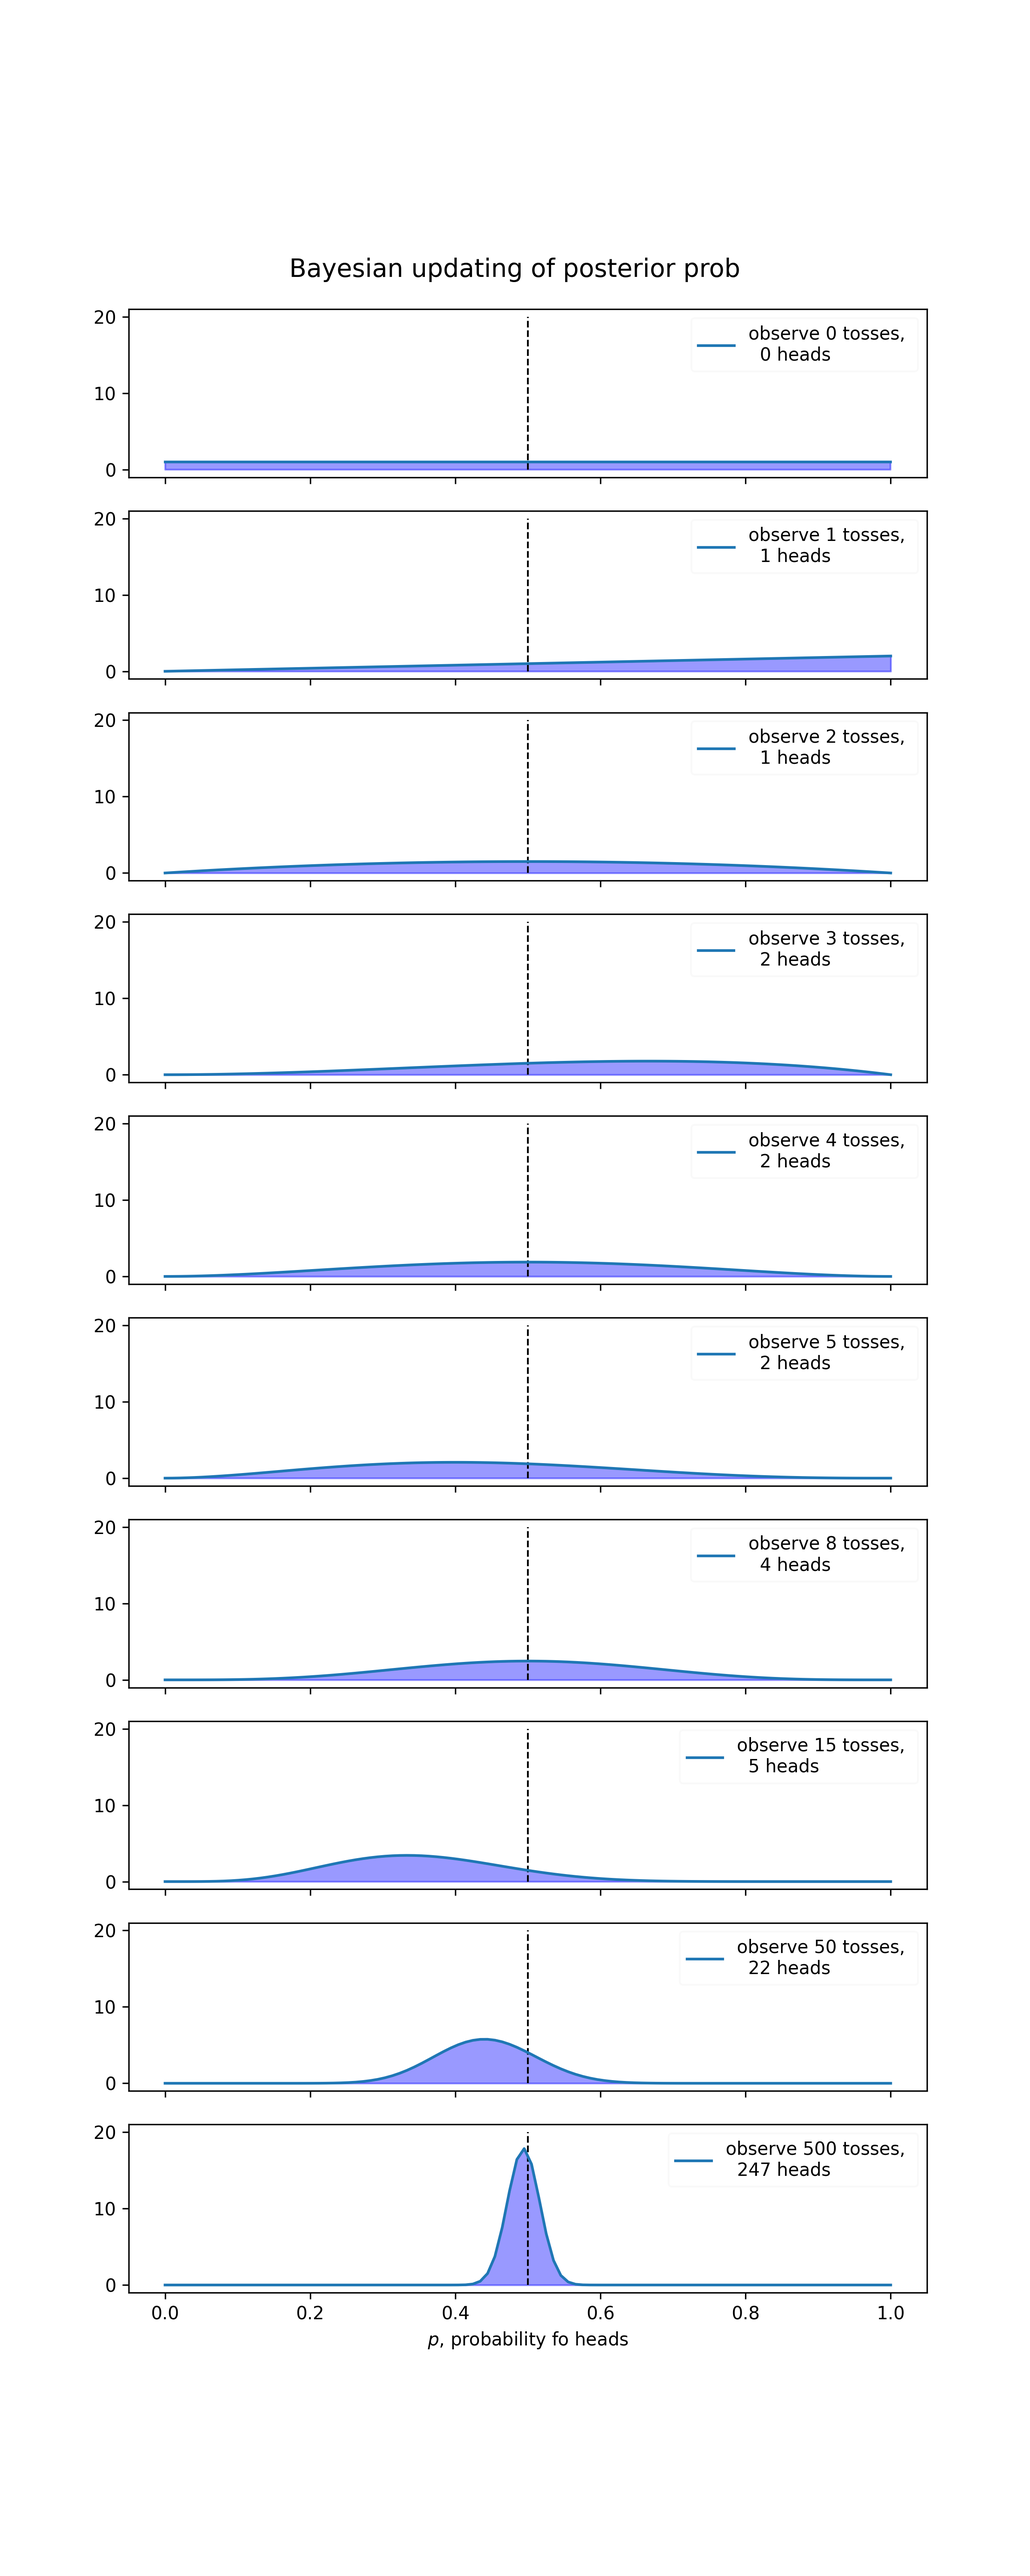
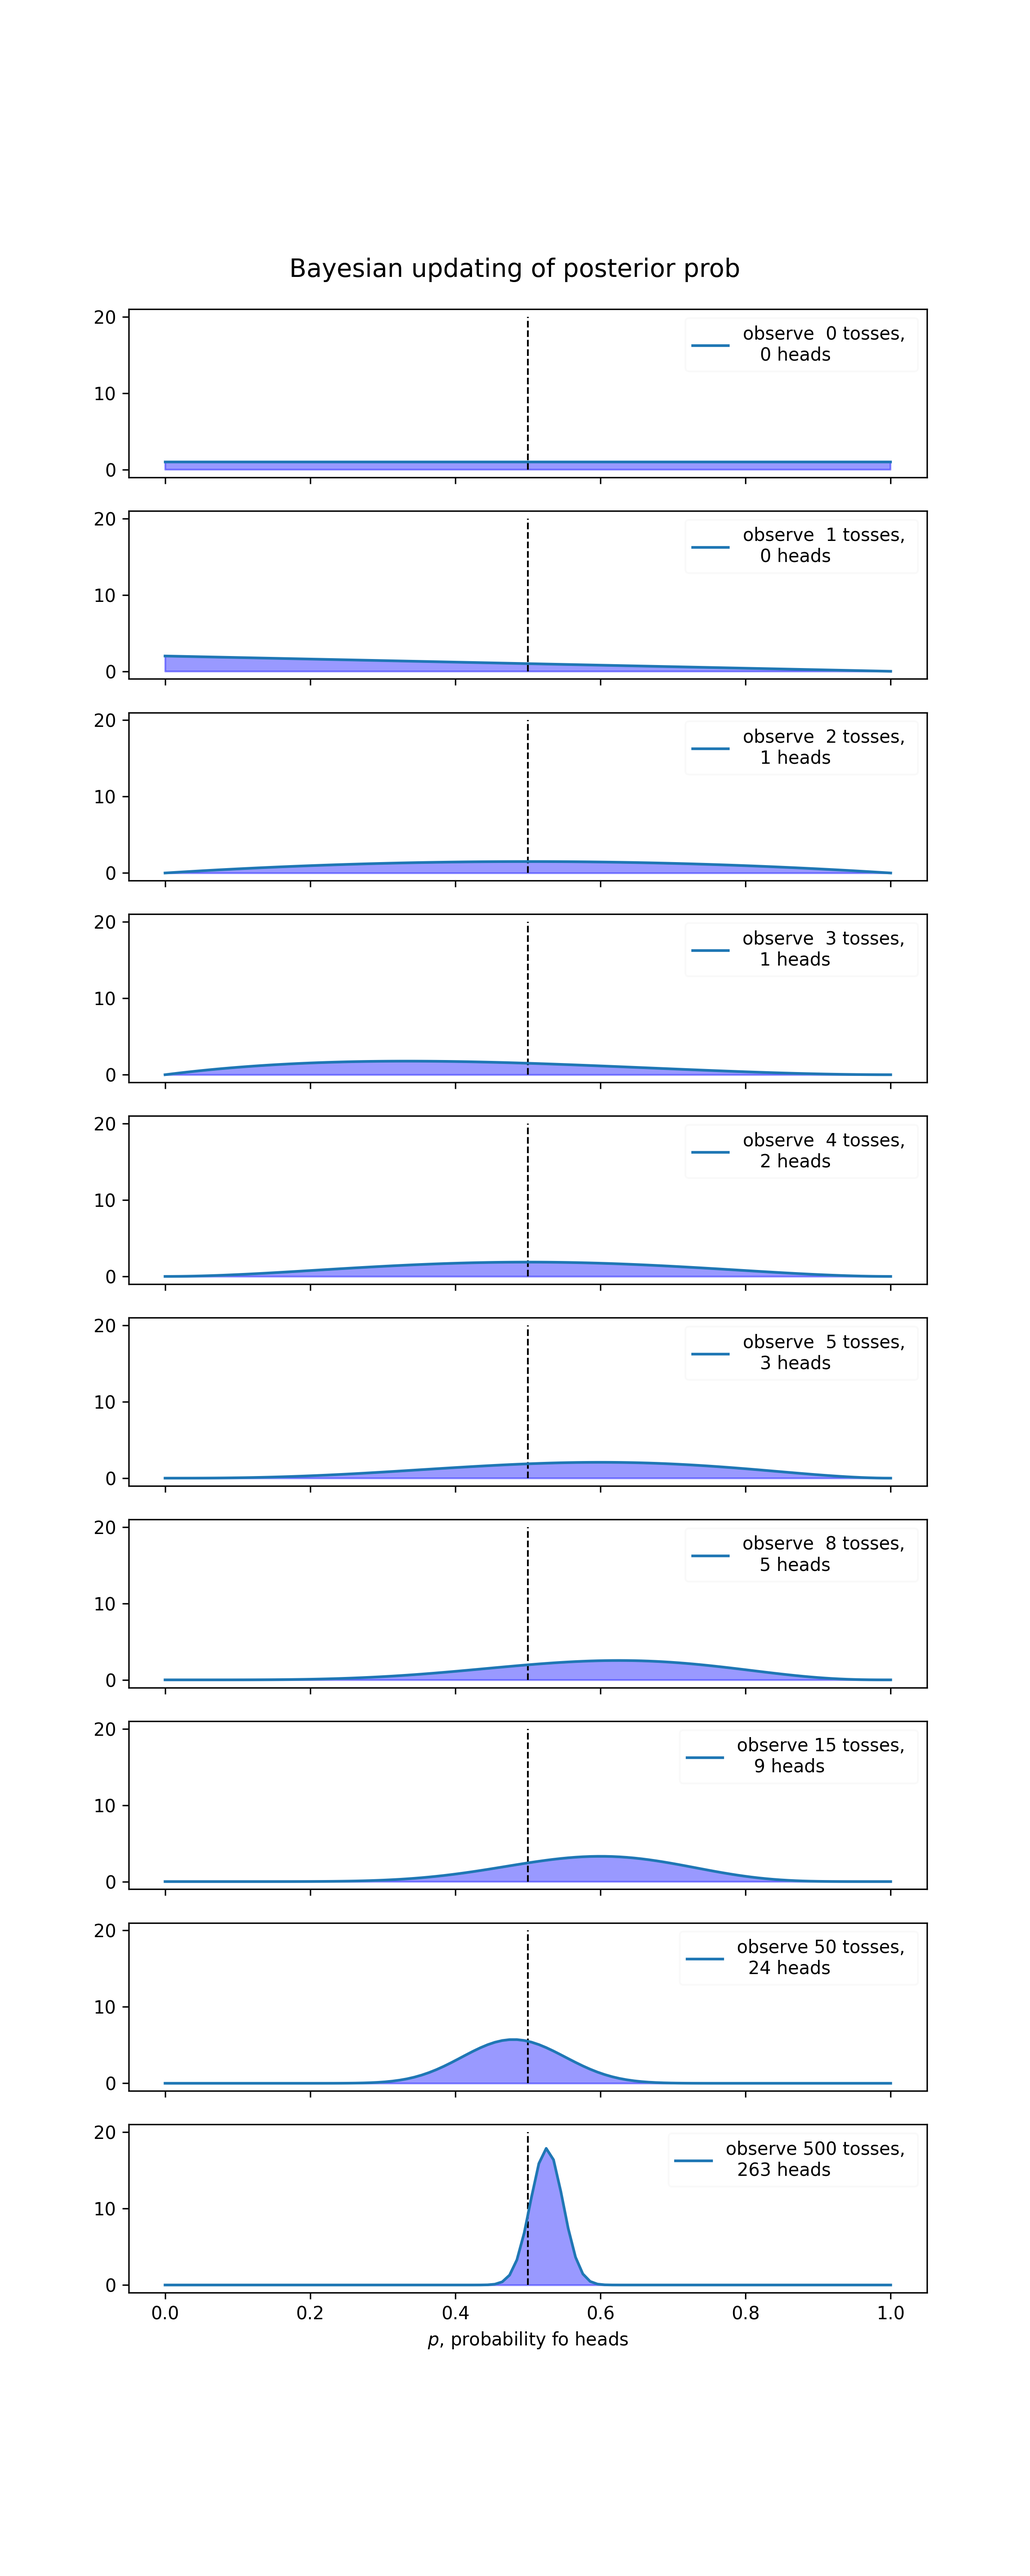
figure 1-3

diff --git a/Chapter01/figure1-3.py b/Chapter01/figure1-3.py
@@ -1,0 +1,26 @@
+import numpy as np
+import scipy.stats as stats
+import matplotlib.pyplot as plt
+plt.switch_backend('agg')
+
+a = np.arange(16)
+poi = stats.poisson
+lambda_ = [1.5, 4.25] #variable "lambda" is impossible
+colors = ["#348ABD", "#A60628"]
+
+plt.figure(figsize=(12.5, 4))
+# poisson, probability mass function will be used.
+for idx, lam in enumerate(lambda_):
+    plt.bar(a, poi.pmf(a, lam), color = colors[idx], 
+        label=r"$\lambda = {}$".format(lam), alpha = 0.6,
+        edgecolor = colors[idx], lw="3")
+
+plt.xticks(a+ 0.4, a)
+plt.legend()
+plt.ylabel(r"probability of $k$")
+plt.xlabel(r"$k$")
+plt.title(r'''
+Probability mass function of a Poisson random variable; differing $\lambda$ values
+    ''')
+
+plt.savefig("./Chapter01/figure1-3.png", dpi = 300)

diff --git a/Chapter01/figure1-1.py b/Chapter01/figure1-1.py
@@ -17,7 +17,7 @@ for idx, N in enumerate(n_trials):
     #plt.setp(ax.get_yticklabels(), visible = False)
     heads = data[:N].sum() # get simulated data.
     y = dist.pdf(x, 1 + heads, 1+ N-heads) # what is this?
-    ax[idx].plot(x, y, label = "observe %d tosses, \n  %d heads" % (N, heads))
+    ax[idx].plot(x, y, label = "observe {:2d} tosses, \n  {:2d} heads".format(N, heads))
     ax[idx].fill_between(x, 0, y, color = "blue", alpha = 0.4)
     ax[idx].vlines(0.5, 0, 20, color = "k", linestyles="--", lw = 1)
 
